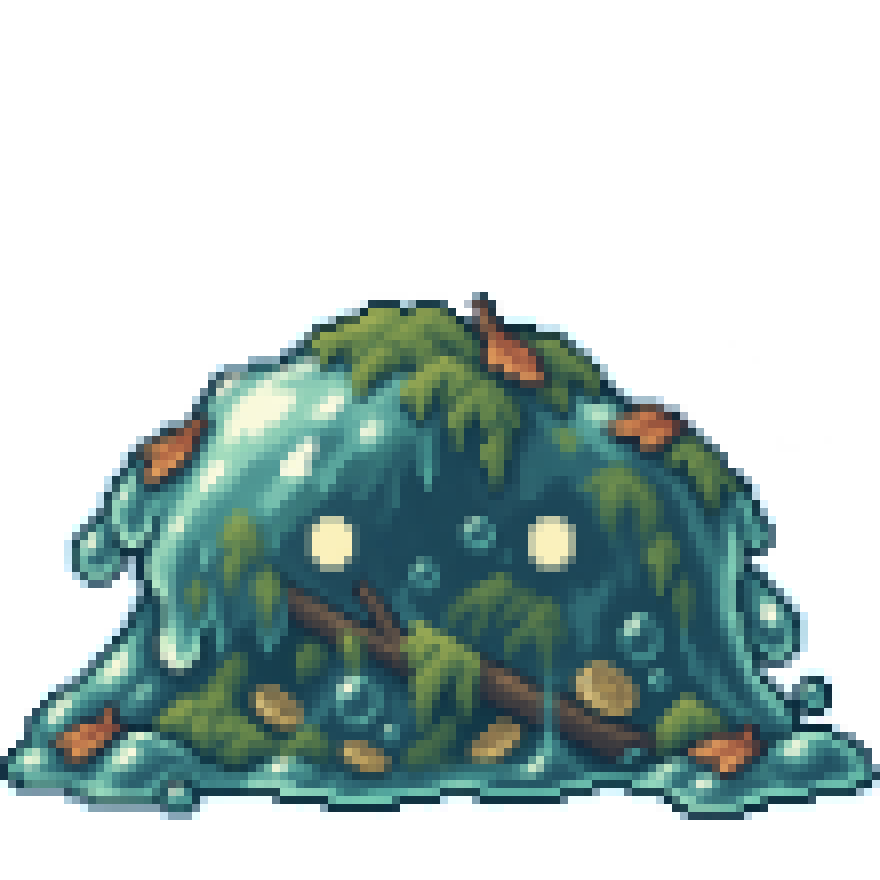
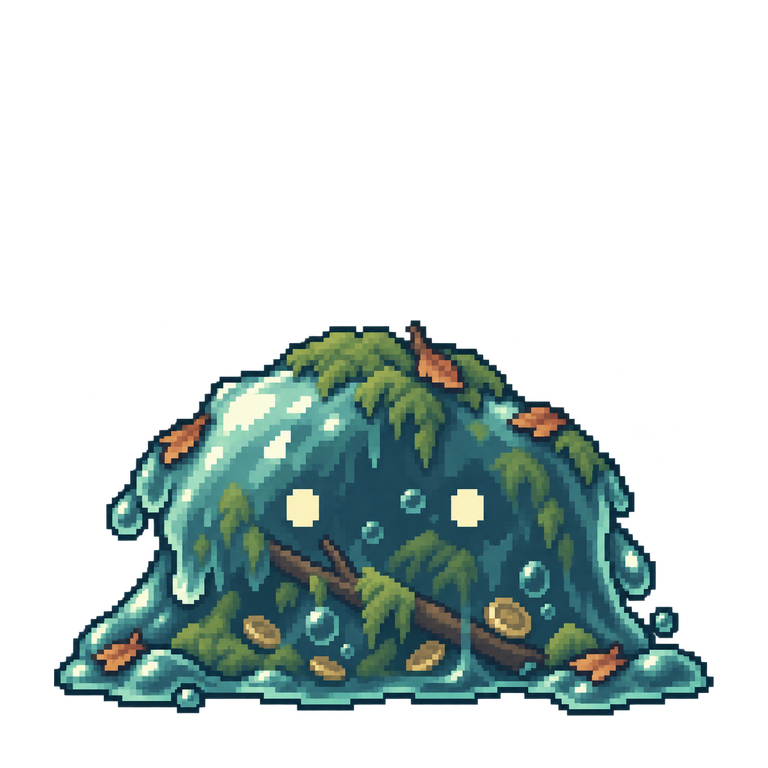
캐릭터 격자화 제거 (검토 41 승인) + 걷기 프레임 굽기
원화 1254px 중 37칸만 쓰던 것을 화면이 받는 만큼 그대로 쓰게 했다.

- bake_art.py 에 normalize() — 격자화가 하던 둘 중 자리 잡기만 남기고
  양자화는 뺐다. 실루엣을 잘라 긴 변 86%로 줄이고 발바닥 0.9316 에 앉힌다
- 캐릭터 3종 재굽기 (마법사·고블린 512, 보스 768). 발바닥 셋 다 0.9316
- kArtFilter none → medium. 격자가 없으니 최근접으로 줄이면 깨진다
  배경은 kArtBgFilter = none 으로 갈라 예전 그대로
- ✅ 마법사 걷기 4프레임을 구웠다 (kArtWizardWalkReady = true)
  밀도 제약이 사라져 지금 넣을 수 있게 됐다
- gridize.py 는 배경 전용으로 표시. HANDOFF_ART 밀도 표 무효화

flutter analyze 0 · flutter test 362개 전부 통과

Claude-Session: https://claude.ai/code/session_01WzGqvKxQbySSs32j2sbx3K

diff --git a/lib/art/art_sprite.dart b/lib/art/art_sprite.dart
@@ -25,10 +25,16 @@ const Map<int, String> kArtRegionBackdrops = {
 /// **비율이라 캔버스 크기가 달라도 그대로 쓴다.** 캐릭터를 땅에 세울 때 쓴다.
 const double kArtFootLine = 477 / 512;
 
-/// 원화는 정사각 블록으로 그려져 있다 — 화면 한 칸 약 **1.7dp**
-/// (마법사 16px/1024 · 적 23px/1024 · 보스 8px/848 · 배경 2px/1024).
-/// 보간해서 줄이면 그 격자가 흐려진다 — Phase 1이 반려된 바로 그 현상이다.
-const FilterQuality kArtFilter = FilterQuality.none;
+/// 캐릭터 원화를 줄일 때의 보간.
+///
+/// 🔴 **2026-09-13에 `none` 에서 바뀌었다** (검토 41 승인). 예전에는 원화를
+/// 정사각 블록으로 격자화해 두고 최근접으로 줄였는데, 그 격자가 **세부를 6.2배
+/// 깎고 있었다** — 참고 게임은 블록을 강제하지 않는다(같은 색이 1px씩 53%).
+/// 격자를 없앴으므로 **부드럽게 줄여야** 한다. 최근접으로 줄이면 깨진다.
+const FilterQuality kArtFilter = FilterQuality.medium;
+
+/// 배경 원화의 보간. **배경은 예전 그대로 2px 블록**이라 최근접을 유지한다.
+const FilterQuality kArtBgFilter = FilterQuality.none;
 
 /// 원화 한 장을 캐릭터 자리에 세운다.
 ///
@@ -115,9 +121,10 @@ const List<String> kArtWizardWalk = [
 ];
 
 /// 걷기 프레임이 `assets/art/wizard/`에 구워져 있으면 `true`로.
+/// ✅ **2026-09-13에 구웠다** (검토 42) — 격자화를 빼면서 함께 넣었다.
 /// `false`면 미는 동안에도 정지 그림을 그대로 쓴다 (없는 파일을 매 프레임
 /// 찾아 로그를 더럽히지 않기 위해 런타임 탐색 대신 이 한 줄로 가른다).
-const bool kArtWizardWalkReady = false;
+const bool kArtWizardWalkReady = true;
 
 /// 0~1 진행도 → 걷기 프레임 경로. 미는 동안 두 걸음 걷는다.
 String wizardWalkFrame(double t) =>
@@ -142,7 +149,7 @@ class ArtBackdropView extends StatelessWidget {
         asset,
         fit: BoxFit.cover,
         alignment: Alignment.bottomCenter,
-        filterQuality: kArtFilter,
+        filterQuality: kArtBgFilter,
         errorBuilder: (_, _, _) => fallback,
       );
 }

diff --git a/tool/bake_art.py b/tool/bake_art.py
@@ -2,12 +2,18 @@
 
 근거: `WORK_ORDER_ART_PHASE1_5.md` 2-A절 · `docs/art/RUNTIME_ASSET_SPEC.md`
 
-하는 것은 둘뿐이다 — **알파 250↑ → 255 스냅**, **무손실 WebP 굽기**.
+하는 것은 셋이다 — **알파 250↑ → 255 스냅**, **선택적 축소**, **무손실 WebP 굽기**.
 
-⛔ **크기를 건드리지 않는다.** 원화는 7px(캐릭터)·2px(배경) 정사각 블록으로
-그려져 있어 정수배가 아닌 배율로 리샘플하면 그 격자가 깨진다. 화면에
-맞추는 축소는 런타임이 `FilterQuality.none` 으로 한다.
-(앞 지시서의 「크롭 + 몸 높이 정규화」는 폐기됐다 — 격자가 깨졌다)
+> ## 🔴 2026-09-13 — **캐릭터 격자화를 뺐다** (검토 41 승인)
+> 옛 주석은 「크기를 건드리지 않는다 — 격자가 깨진다」였다. **그 격자를 없앴다.**
+>
+> 참고 게임 실측에서 **지배적인 블록 크기가 없었고**(같은 색이 1px씩 53%),
+> 우리는 228 물리픽셀 자리에 37칸만 내보내 **6.2배 거칠었다.**
+> 원화가 모자란 것이 아니라 격자화가 버리고 있었다.
+>
+> 이제 캐릭터는 **`gridize` 를 거치지 않고 여기서 바로 줄인다.**
+> 줄이는 것은 LANCZOS 이고, 런타임 보간도 `none` 이 아니라 부드러운 것을 쓴다.
+> **배경은 예전 그대로다** (2px 블록을 유지한다).
 
 ⛔ 팔레트 근사 · 포스터라이즈 · 색 수 제한 · 외곽선 추가 · 알파 이진화도 안 한다.
 
@@ -27,8 +33,39 @@ ALPHA_CROP = 16       # 실루엣 문턱값
 ALPHA_SNAP = 250      # 이 값 이상은 255로
 
 
-def bake(src_path, dst_path):
+FOOT = 477 / 512      # 발바닥이 놓이는 세로 비율 (art_sprite.dart kArtFootLine)
+FILL = 0.86           # 실루엣의 긴 변이 캔버스에서 차지하는 비율
+
+
+def normalize(im, size):
+    """실루엣을 잘라내 [size] 정사각 캔버스에 **발바닥 기준으로** 다시 앉힌다.
+
+    격자화(`gridize.py`)가 하던 두 가지 중 **자리 잡기만 남기고 양자화는 뺐다**
+    (검토 41 승인). 양자화가 세부를 6배 깎고 있었다.
+
+    긴 변을 기준으로 줄이므로 **넓고 낮은 몬스터**(슬라임·두꺼비)도 넘치지 않는다.
+    """
+    box = im.split()[3].point(lambda v: 255 if v >= ALPHA_CROP else 0).getbbox()
+    if box is None:
+        return im.resize((size, size), Image.LANCZOS)
+    im = im.crop(box)
+    r = size * FILL / max(im.size)
+    im = im.resize((max(1, round(im.width * r)), max(1, round(im.height * r))),
+                   Image.LANCZOS)
+    out = Image.new('RGBA', (size, size), (0, 0, 0, 0))
+    out.paste(im, ((size - im.width) // 2, round(size * FOOT) - im.height))
+    return out
+
+
+def bake(src_path, dst_path, size=None):
+    """[size]를 주면 그 정사각 캔버스에 **발바닥을 맞춰** 앉히고 줄여 굽는다.
+
+    화면에 나가는 물리 픽셀보다 **두 배쯤 크게** 두면 충분하다 —
+    일반 적 76dp × 3배 화면 = 228px 이므로 512 면 2.2배 여유다.
+    """
     im = Image.open(src_path).convert('RGBA')
+    if size is not None:
+        im = normalize(im, size)
     r, g, b, a = im.split()
     # 원화 알파 최대가 253~254라 그대로 두면 배경이 비친다
     a = a.point(lambda v: 255 if v >= ALPHA_SNAP else v)
@@ -85,5 +122,6 @@ if __name__ == '__main__':
         for p in sys.argv[2:]:
             report(p)
     else:
-        bake(sys.argv[1], sys.argv[2])
+        size = int(sys.argv[3]) if len(sys.argv) > 3 else None
+        bake(sys.argv[1], sys.argv[2], size)
         report(sys.argv[2])

diff --git a/tool/gridize.py b/tool/gridize.py
@@ -1,4 +1,8 @@
-"""원화를 **정확히 N칸 격자** 위로 다시 찍는다. (`reports/32_원화v3_검수.md` 3절)
+"""원화를 **정확히 N칸 격자** 위로 다시 찍는다.
+
+🔴 **2026-09-13 — 캐릭터는 더 이상 이것을 거치지 않는다** (검토 41 승인).
+양자화가 세부를 6.2배 깎고 있었다. 캐릭터는 `bake_art.py` 가 실루엣을 잘라
+발바닥에 앉히고 줄이는 것으로 끝난다. **이 도구는 배경 전용으로 남는다.** (`reports/32_원화v3_검수.md` 3절)
 
 생성기는 두 번 요청해도 「칸 수」를 못 맞췄다 (마법사 56칸 → 56칸). 그런데
 받은 그림은 **필요한 것보다 잘게** 그려져 있으므로, **굵게 다시 찍는 것은

diff --git a/reports/42_격자화제거.md b/reports/42_격자화제거.md
@@ -1,0 +1,36 @@
+# 42. 캐릭터 격자화 제거 (검토 41 승인)
+
+작성: 2026-09-13, 기획 창에서 직접. 근거: `reports/41_격자화_재검토.md` · 사용자 승인.
+
+## 진행
+
+- [1/6] 시작. 격자화를 빼면 **보간도 같이 바꿔야 한다** — 격자 없는 그림을
+  최근접으로 줄이면 깨진다. 지금 `kArtFilter = FilterQuality.none`
+- [2/6] `tool/bake_art.py` 에 `normalize()` 신설. 격자화가 하던 둘 중
+  **자리 잡기만 남기고 양자화는 뺐다** — 실루엣을 잘라 긴 변을 캔버스의 86%로
+  줄이고 **발바닥 0.9316**에 앉힌다. 긴 변 기준이라 넓고 낮은 몬스터도 안 넘친다
+- [3/6] 캐릭터 3종 재굽기. 마법사·고블린 **512**, 보스 **768**.
+  발바닥 셋 다 **0.9316** · 중심 0.499 (실측)
+- [4/6] 런타임 보간 `kArtFilter` **none → medium**. 격자가 없으니 최근접으로
+  줄이면 깨진다. 🔴 **배경은 `kArtBgFilter = none` 으로 갈라 예전 그대로 뒀다**
+- [5/6] ✅ **마법사 걷기 4프레임을 구웠다.** 원화가 이미 있었고 밀도 제약이
+  사라져 지금 넣을 수 있게 됐다. `kArtWizardWalkReady = true`
+- [6/6] 문서 갱신 — `docs/HANDOFF_ART.md` 밀도 표 무효화 · `tool/gridize.py` 는
+  **배경 전용**으로 표시. `flutter analyze` 0 · `flutter test` **362개 통과**
+
+## 화면 확인
+
+`reports/img/roadside/floor_3.png` — 고블린과 마법사가 **또렷하다.** 덩어리로
+보이던 블록이 사라졌다. 보스 음영도 깨끗해졌다.
+
+## 무엇이 바뀌었나 한 줄
+
+**원화 1254px 중 37칸만 쓰던 것을, 화면이 받는 만큼 그대로 쓰게 했다.**
+
+## 남은 것
+
+1. **일관성 보증이 자동에서 수동이 됐다.** 참고 게임의 기준은 **팔레트 폭**이다
+   (8688px 에 105색). 새 에셋이 들어올 때마다 재는 습관이 필요하다
+2. 배경은 아직 2px 블록이다. **캐릭터만 부드러워져 배경과 성질이 달라졌다** —
+   화면에서 어긋나 보이면 배경도 같이 봐야 한다
+3. `ASSET_LIST.md` 에 **적마다 대표 색**을 배정하는 일은 그대로 남아 있다

diff --git a/docs/HANDOFF_ART.md b/docs/HANDOFF_ART.md
@@ -22,6 +22,26 @@
 >
 > **넷 다 격자 적합 0.00** (기획 창이 재현 확인). `flutter test` **317** 통과.
 >
+> ## 🔴🔴 2026-09-13 — **캐릭터 격자화를 없앴다. 아래 밀도 표는 무효다** (검토 41·42)
+>
+> 참고 게임(`refs/dicero`)을 실측했더니 **지배적인 블록 크기가 없었다**
+> (같은 색이 1px씩 53%). 그런데 우리는 **228 물리픽셀 자리에 37칸만** 내보내
+> **6.2배 거칠었다.** 원화가 모자란 것이 아니라 **격자화가 버리고 있었다.**
+>
+> | | 옛것 | **지금** |
+> |---|---|---|
+> | 캐릭터 굽기 | `gridize.py` → N칸 양자화 → `bake_art.py` | 🔴 **`bake_art.py` 하나로 끝.** 실루엣을 잘라 발바닥 0.9316에 앉히고 줄인다 |
+> | 캔버스 | 1024 (보스 880) | **512** (보스 768) |
+> | 런타임 보간 | `FilterQuality.none` | 🔴 **`medium`** — 격자가 없으니 부드럽게 줄여야 한다 |
+> | 밀도 밴드 1.55~1.75dp | 한 칸이 몇 dp | ⛔ **의미가 없다. 칸이 없다** |
+> | 일관성 보증 | 칸 수가 같아 자동 | **미술 지시와 측정으로.** 참고 게임의 기준은 **팔레트 폭**(105색/8688px) |
+>
+> **배경은 그대로다** — 2px 블록을 유지하고 `kArtBgFilter = none` 을 쓴다.
+> `gridize.py` 는 **배경용으로만 남는다.**
+>
+> ✅ **마법사 걷기 4프레임도 이때 구웠다** (`back_walk_1~4.webp`, `kArtWizardWalkReady = true`).
+
+> ### ⛔ 아래 「규칙이 두 개 바뀌었다」는 격자화 시절의 기록이다
 > ### 🔴 규칙이 두 개 바뀌었다 — 옛 값으로 일하지 마라
 > | | 옛것 | **지금** |
 > |---|---|---|
